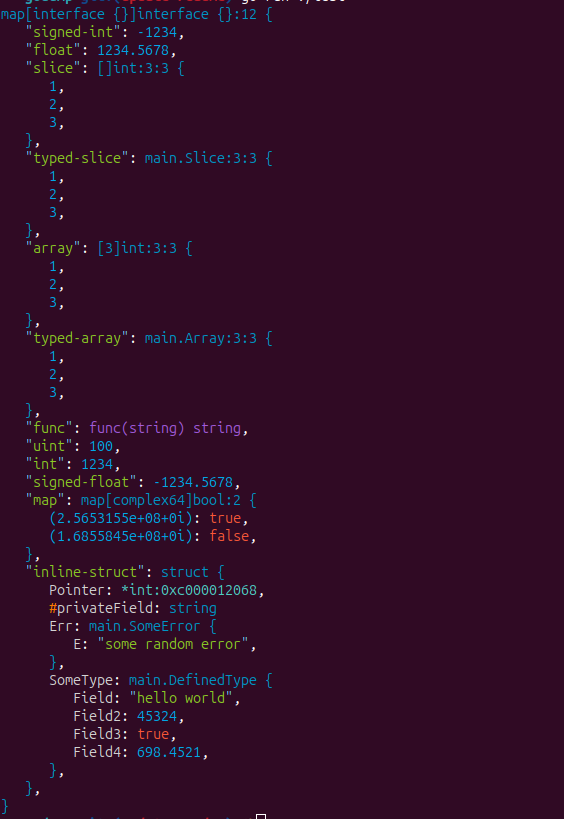
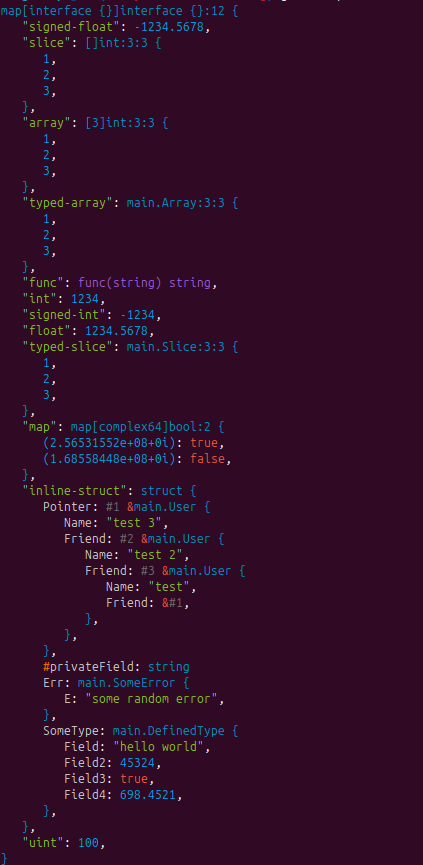
update readme and demo

diff --git a/README.md b/README.md
@@ -61,10 +61,17 @@ type DefinedType struct {
 
 type Slice []int
 type Array [3]int
+type User struct {
+	Name   string
+	Friend *User
+}
 
 func main() {
 
-	var a int = 55644133
+	person1 := User{"test", nil}
+	person2 := User{"test 2", &person1}
+	person3 := User{"test 3", &person2}
+	person1.Friend = &person3
 
 	godump.Dump(map[any]any{
 		"uint":         uint(100),
@@ -81,12 +88,12 @@ func main() {
 			0xa0bff6e: false,
 		},
 		"inline-struct": struct {
-			Pointer      *int
+			Pointer      *User
 			privateField string
 			Err          SomeError
 			SomeType     DefinedType
 		}{
-			Pointer:      &a,
+			Pointer:      &person3,
 			privateField: "private",
 			Err:          SomeError{"some random error"},
 			SomeType: DefinedType{
